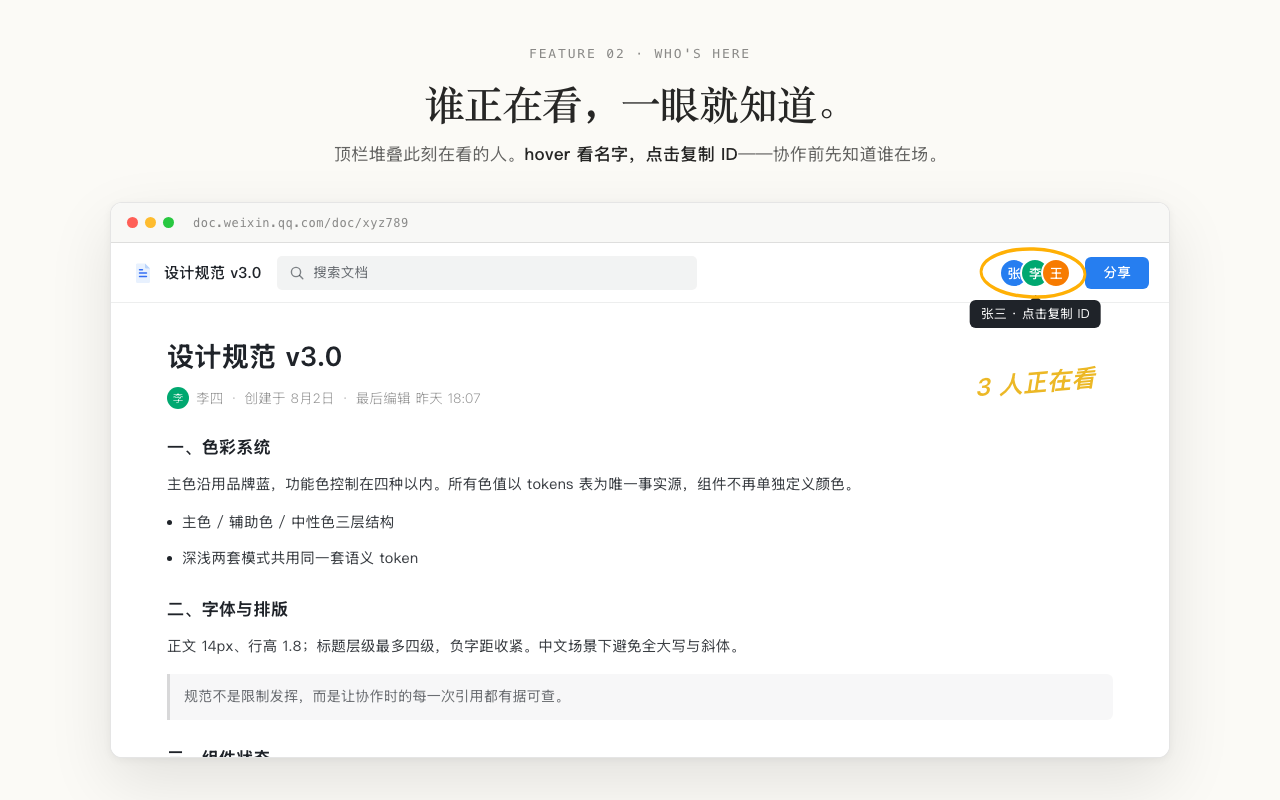
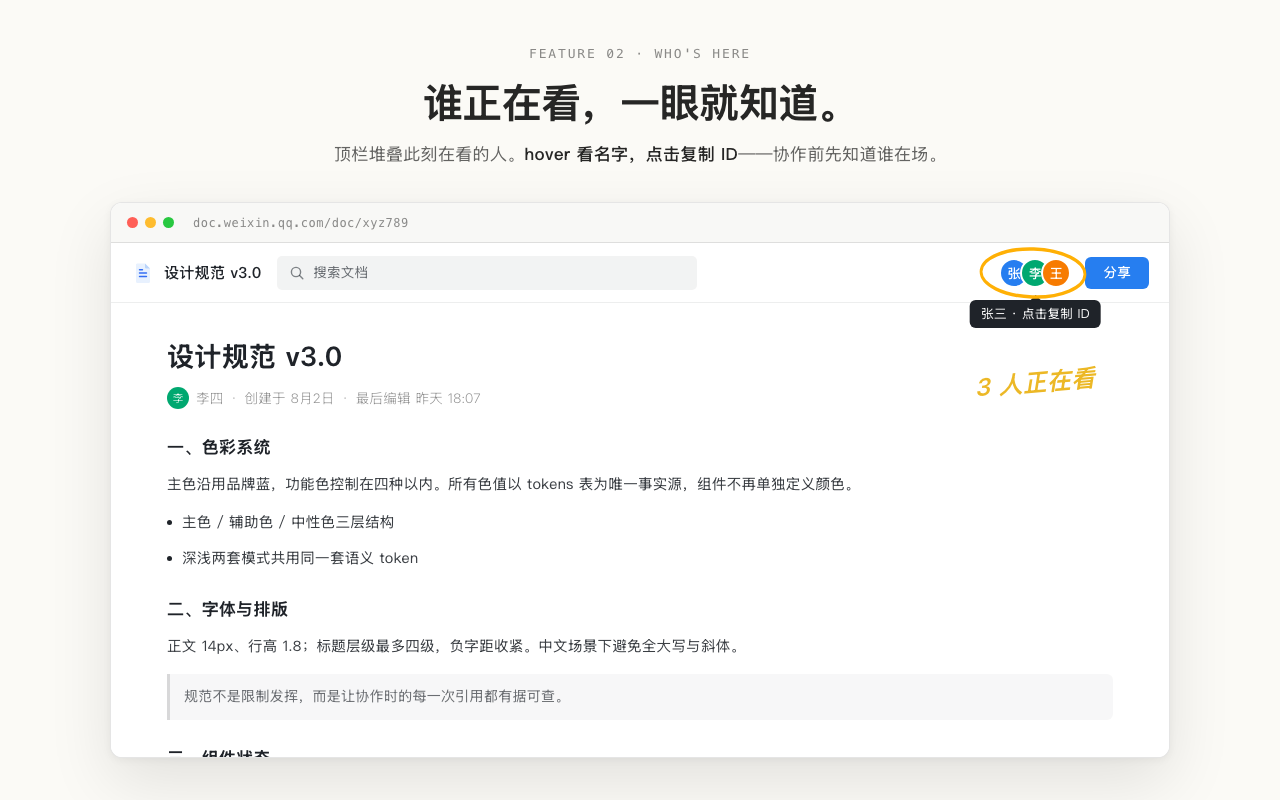
chore(store-shots): 商店截图重渲，标题字体栈从宋体换为 SF

Changed region(s): [[0.5, 0.0938, 0.6562, 0.1562], [0.3125, 0.0938, 0.4688, 0.1562]]

diff --git a/store-shots/shared.css b/store-shots/shared.css
@@ -13,7 +13,7 @@
   --wecom: #267EF0;
   --doc-blue: #336DF4;
   --mono: ui-monospace, "SF Mono", Menlo, "PingFang SC", monospace;
-  --serif: -apple-system, "Songti SC", "Noto Serif SC", serif;
+  --serif: -apple-system, "SF Pro Display", "PingFang SC", "Noto Sans SC", sans-serif;
   --body: -apple-system, "PingFang SC", "Noto Sans SC", sans-serif;
 }
 
